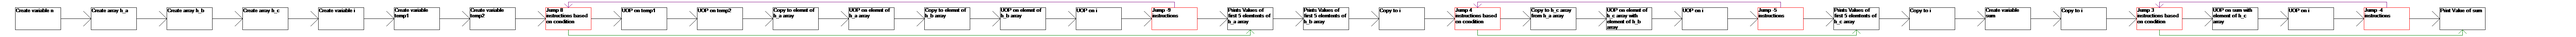
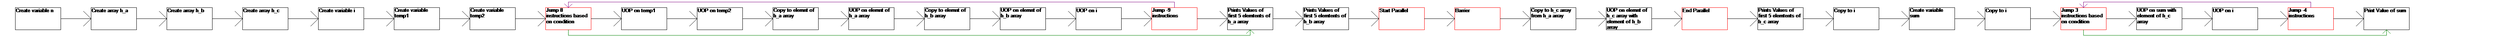
Parallel Simulation + barrier

diff --git a/Szakdolgozat/Services/InstructionHandler.cs b/Szakdolgozat/Services/InstructionHandler.cs
@@ -1,5 +1,6 @@
 using Szakdolgozat.Models;
 using System.Reflection;
+using System.Collections.Immutable;
 using System.Drawing;
 using System.Reflection.Emit;
 
@@ -9,6 +10,8 @@ namespace Szakdolgozat.Services
     public class InstructionHandler
     {
         private ImageService imageService = new ImageService();
+        private bool parallel = false;
+        private ImmutableList<Instruction> parallelInstructions = ImmutableList<Instruction>.Empty;
 
         public void ExecuteDeclaration(Instruction instruction, TypeBuilder typeBuilder,ref int counter)
         {
@@ -25,8 +28,21 @@ namespace Szakdolgozat.Services
             }
         }
 
-        public void ExecuteInstruction(Instruction instruction,object _object,ref int i,ref int counter,List<string> resultList,ref int memory)
+        public void ExecuteInstruction(Instruction instruction,object _object,ref int i,ref int counter,List<string> resultList,ref int memory,int? parallelIndex=null)
         {
+            if(instruction.instrucionType == InstructionType.PARALLEL_END)
+            {
+                parallel = false;
+                ExecuteParallel(_object, ref counter, ref memory,resultList,GetParallelCount(instruction.var1,instruction.value1,_object));
+                i++;
+                return;
+            }
+            if (parallel)
+            {
+                parallelInstructions=parallelInstructions.Add(instruction);
+                i++;
+                return;
+            }
             string resultString = null;
             switch (instruction.instrucionType)
             {
@@ -75,23 +91,23 @@ namespace Szakdolgozat.Services
                     counter++;
                     break;
                 case InstructionType.COPY_TO_ARRAY:
-                    CopyToArray(instruction.var1, instruction.var2, instruction.var3, instruction.index, _object);
+                    CopyToArray(instruction.var1, instruction.var2, instruction.var3, instruction.index, _object, parallelIndex);
                     counter++;
                     break;
                 case InstructionType.UOP_TO_ARRAY:
-                    UopToArray(instruction.var1, instruction.var2, instruction.var3, instruction.index, instruction.op, _object);
+                    UopToArray(instruction.var1, instruction.var2, instruction.var3, instruction.index, instruction.op, _object, parallelIndex);
                     counter++;
                     break;
                 case InstructionType.COPY_ARRAY_ARRAY:
-                    CopyToArrayFromArray(instruction.var1, instruction.var2, instruction.var3, instruction.index, _object);
+                    CopyToArrayFromArray(instruction.var1, instruction.var2, instruction.var3, instruction.index, _object, parallelIndex);
                     counter++;
                     break;
                 case InstructionType.UOP_ARRAY_ARRAY:
-                    UopToArrayFromArray(instruction.var1,instruction.var2,instruction.var3,instruction.index, instruction.op,_object);
+                    UopToArrayFromArray(instruction.var1,instruction.var2,instruction.var3,instruction.index, instruction.op,_object, parallelIndex);
                     counter++;
                     break;
                 case InstructionType.UOP_FROM_ARRAY:
-                    UopFromArray(instruction.var1, instruction.var2, instruction.var3, instruction.index, instruction.op, _object);
+                    UopFromArray(instruction.var1, instruction.var2, instruction.var3, instruction.index, instruction.op, _object, parallelIndex);
                     counter++;
                     break;
                 case InstructionType.VAR_PRINT:
@@ -99,6 +115,9 @@ namespace Szakdolgozat.Services
                     break;
                 case InstructionType.ARRAY_PRINT:
                     resultList.Add($"At step {counter} : {ArrayPrint(instruction.var1, _object)}");
+                    break;
+                case InstructionType.PARALLEL_START:
+                    ParallelStart();
                     break;
             }
             i++;
@@ -116,7 +135,6 @@ namespace Szakdolgozat.Services
                     break;
                 case InstructionType.UOP:
                     imageService.AddNextInstruction(ref bitmap, $"UOP on {instruction.var1}", false);
-                  
                     break;
                 case InstructionType.COPY_TO_ARRAY:
                     imageService.AddNextInstruction(ref bitmap, $"Copy to elemnt of {instruction.var1} array", false);
@@ -144,6 +162,15 @@ namespace Szakdolgozat.Services
                     break;
                 case InstructionType.COPY:
                     imageService.AddNextInstruction(ref bitmap, $"Copy to {instruction.var1}", false);
+                    break;
+                case InstructionType.PARALLEL_START:
+                    imageService.AddNextInstruction(ref bitmap, "Start Parallel", true);
+                    break;
+                case InstructionType.PARALLEL_END:
+                    imageService.AddNextInstruction(ref bitmap, "End Parallel", true);
+                    break;
+                case InstructionType.BARRIER:
+                    imageService.AddNextInstruction(ref bitmap, "Barrier", true);
                     break;
                 case InstructionType.J_IF_EQUAL:
                 case InstructionType.J_IF_GREATER:
@@ -337,7 +364,7 @@ namespace Szakdolgozat.Services
                 i += (int)index.Value;
             }
         }
-        private void CopyToArray(string arrayName, string name,string indexVar,int? index, object _object)
+        private void CopyToArray(string arrayName, string name,string indexVar,int? index, object _object,int? parallelIndex)
         {
             int arrayIndex;
             if (index.HasValue)
@@ -346,6 +373,11 @@ namespace Szakdolgozat.Services
             }
             else { 
                 arrayIndex = Convert.ToInt32(_object.GetType().GetField(indexVar).GetValue(_object)); 
+            }
+
+            if (parallelIndex.HasValue)
+            {
+                arrayIndex = (int)parallelIndex.Value;
             }
             object value = _object.GetType().GetField(name).GetValue(_object);
             if (value.GetType() == typeof(string))
@@ -357,7 +389,7 @@ namespace Szakdolgozat.Services
                 ((IList<double>)_object.GetType().GetField(arrayName).GetValue(_object))[arrayIndex] = (double)value;
             }
         }
-        private void UopToArray(string arrayName, string name, string indexVar, int? index, string op, object _object)
+        private void UopToArray(string arrayName, string name, string indexVar, int? index, string op, object _object,int? parallelIndex)
         {
             int arrayIndex;
             if (index.HasValue)
@@ -367,6 +399,11 @@ namespace Szakdolgozat.Services
             else
             {
                 arrayIndex = Convert.ToInt32(_object.GetType().GetField(indexVar).GetValue(_object));
+            }
+
+            if (parallelIndex.HasValue)
+            {
+                arrayIndex = (int)parallelIndex.Value;
             }
             object value = _object.GetType().GetField(name).GetValue(_object);
            
@@ -386,7 +423,7 @@ namespace Szakdolgozat.Services
                     break;
             }
         }
-        private void CopyToArrayFromArray(string arrayTo, string arrayFrom, string indexVar, int? index, object _object)
+        private void CopyToArrayFromArray(string arrayTo, string arrayFrom, string indexVar, int? index, object _object,int? parallelIndex)
         {
             int arrayIndex;
             if (index.HasValue)
@@ -396,6 +433,11 @@ namespace Szakdolgozat.Services
             else
             {
                 arrayIndex = Convert.ToInt32(_object.GetType().GetField(indexVar).GetValue(_object));
+            }
+
+            if (parallelIndex.HasValue)
+            {
+                arrayIndex = (int)parallelIndex.Value;
             }
             object _arrayFrom = _object.GetType().GetField(arrayFrom).GetValue(_object);
             if (_arrayFrom.GetType() == typeof(string[]))
@@ -407,7 +449,7 @@ namespace Szakdolgozat.Services
                 ((IList<double>)_object.GetType().GetField(arrayTo).GetValue(_object))[arrayIndex] = ((IList<double>)_arrayFrom)[arrayIndex];
             }
         }
-        private void UopToArrayFromArray(string arrayTo, string arrayFrom, string indexVar, int? index, string op, object _object)
+        private void UopToArrayFromArray(string arrayTo, string arrayFrom, string indexVar, int? index, string op, object _object,int? parallelIndex)
         {
             int arrayIndex;
             if (index.HasValue)
@@ -418,6 +460,12 @@ namespace Szakdolgozat.Services
             {
                 arrayIndex = Convert.ToInt32(_object.GetType().GetField(indexVar).GetValue(_object));
             }
+
+            if (parallelIndex.HasValue)
+            {
+                arrayIndex = (int)parallelIndex.Value;
+            }
+
             object _arrayFrom = _object.GetType().GetField(arrayFrom).GetValue(_object);
 
             switch (op)
@@ -436,7 +484,7 @@ namespace Szakdolgozat.Services
                     break;
             }
         }
-        private void UopFromArray(string name,string arrayFrom,string indexVar, int? index,string op, object _object)
+        private void UopFromArray(string name,string arrayFrom,string indexVar, int? index,string op, object _object, int? parallelIndex)
         {
             int arrayIndex;
             if (index.HasValue)
@@ -446,6 +494,11 @@ namespace Szakdolgozat.Services
             else
             {
                 arrayIndex = Convert.ToInt32(_object.GetType().GetField(indexVar).GetValue(_object));
+            }
+
+            if (parallelIndex.HasValue)
+            {
+                arrayIndex = (int)parallelIndex.Value;
             }
             object value = ((IList<double>)_object.GetType().GetField(arrayFrom).GetValue(_object))[arrayIndex];
 
@@ -490,5 +543,57 @@ namespace Szakdolgozat.Services
 
             return $"Values of array {name} : {result}";
         }
+        private void ParallelStart()
+        {
+            parallelInstructions=parallelInstructions.Clear();
+            parallel = true;
+        }
+        private int GetParallelCount(string name, double? value,object _object)
+        {
+            if (value.HasValue)
+            {
+                return Convert.ToInt32(value.Value);
+            }
+            else
+            {
+                return Convert.ToInt32(_object.GetType().GetField(name).GetValue(_object));
+            }
+        }
+        private void ExecuteParallel(object _object,ref int counter, ref int memory, List<string> resultList,int parallelCount)
+        {
+            int parallelCounter = 0;
+            int parallelMemory = 0;
+            int b = 0;
+            Barrier barrier;
+            if (parallelCount < 10) { 
+                barrier = new Barrier(parallelCount, null);
+            }
+            else
+            {
+                barrier = new Barrier(10, null);
+            }
+            
+            Parallel.For(0, parallelCount, (i,state) =>
+            {
+                for(int j = 0; j < parallelInstructions.Count;)
+                {
+                    if (parallelInstructions[j].instrucionType == InstructionType.BARRIER && b<10)
+                    {
+                        Interlocked.Increment(ref b);
+                        barrier.SignalAndWait();
+                        j++;
+                    }
+                    else if(parallelInstructions[j].instrucionType == InstructionType.BARRIER) 
+                    {
+                        j++;
+                    }
+                    ExecuteInstruction(parallelInstructions[j], _object, ref j, ref parallelCounter, resultList ,ref parallelMemory,i);
+                }
+            });
+            counter+=parallelCounter;
+            memory+=parallelMemory;
+        }
+
+
     }
 }

diff --git a/Szakdolgozat/Models/MockInstructionList.cs b/Szakdolgozat/Models/MockInstructionList.cs
@@ -34,12 +34,22 @@
             _instructions.Add(new Instruction(InstructionType.ARRAY_PRINT, "h_b", null, null, null, null, null));
 
             //paralell
-            _instructions.Add(new Instruction(InstructionType.COPY, "i", null, null, null, 0, null));
-            _instructions.Add(new Instruction(InstructionType.J_IF_EQUAL, "i", "n", null, 4, null, null));
+            //_instructions.Add(new Instruction(InstructionType.COPY, "i", null, null, null, 0, null));
+            //_instructions.Add(new Instruction(InstructionType.J_IF_EQUAL, "i", "n", null, 4, null, null));
+            //_instructions.Add(new Instruction(InstructionType.COPY_ARRAY_ARRAY, "h_c", "h_a", "i", null, null, null));
+            //_instructions.Add(new Instruction(InstructionType.UOP_ARRAY_ARRAY, "h_c", "h_b", "i", null, null, null,"+"));
+            //_instructions.Add(new Instruction(InstructionType.UOP, "i", null, null, null, 1, null, "+"));
+            //_instructions.Add(new Instruction(InstructionType.JUMP, null, null, null, -5, null, null));
+
+            _instructions.Add(new Instruction(InstructionType.PARALLEL_START, null, null, null, null, null, null));
+            _instructions.Add(new Instruction(InstructionType.BARRIER, null, null, null, null, null, null));
             _instructions.Add(new Instruction(InstructionType.COPY_ARRAY_ARRAY, "h_c", "h_a", "i", null, null, null));
-            _instructions.Add(new Instruction(InstructionType.UOP_ARRAY_ARRAY, "h_c", "h_b", "i", null, null, null,"+"));
-            _instructions.Add(new Instruction(InstructionType.UOP, "i", null, null, null, 1, null, "+"));
-            _instructions.Add(new Instruction(InstructionType.JUMP, null, null, null, -5, null, null));
+            _instructions.Add(new Instruction(InstructionType.UOP_ARRAY_ARRAY, "h_c", "h_b", "i", null, null, null, "+"));
+            _instructions.Add(new Instruction(InstructionType.PARALLEL_END, "n", null, null, null, null, null));
+
+
+
+
             _instructions.Add(new Instruction(InstructionType.ARRAY_PRINT, "h_c", null, null, null, null, null));
 
             _instructions.Add(new Instruction(InstructionType.COPY, "i", null, null, null, 0, null));

diff --git a/Szakdolgozat/Models/InstructionType.cs b/Szakdolgozat/Models/InstructionType.cs
@@ -26,5 +26,8 @@
         J_IF_LESS_EQUAL,
         VAR_PRINT,
         ARRAY_PRINT,
+        PARALLEL_START,
+        PARALLEL_END,
+        BARRIER,
     }
 }
